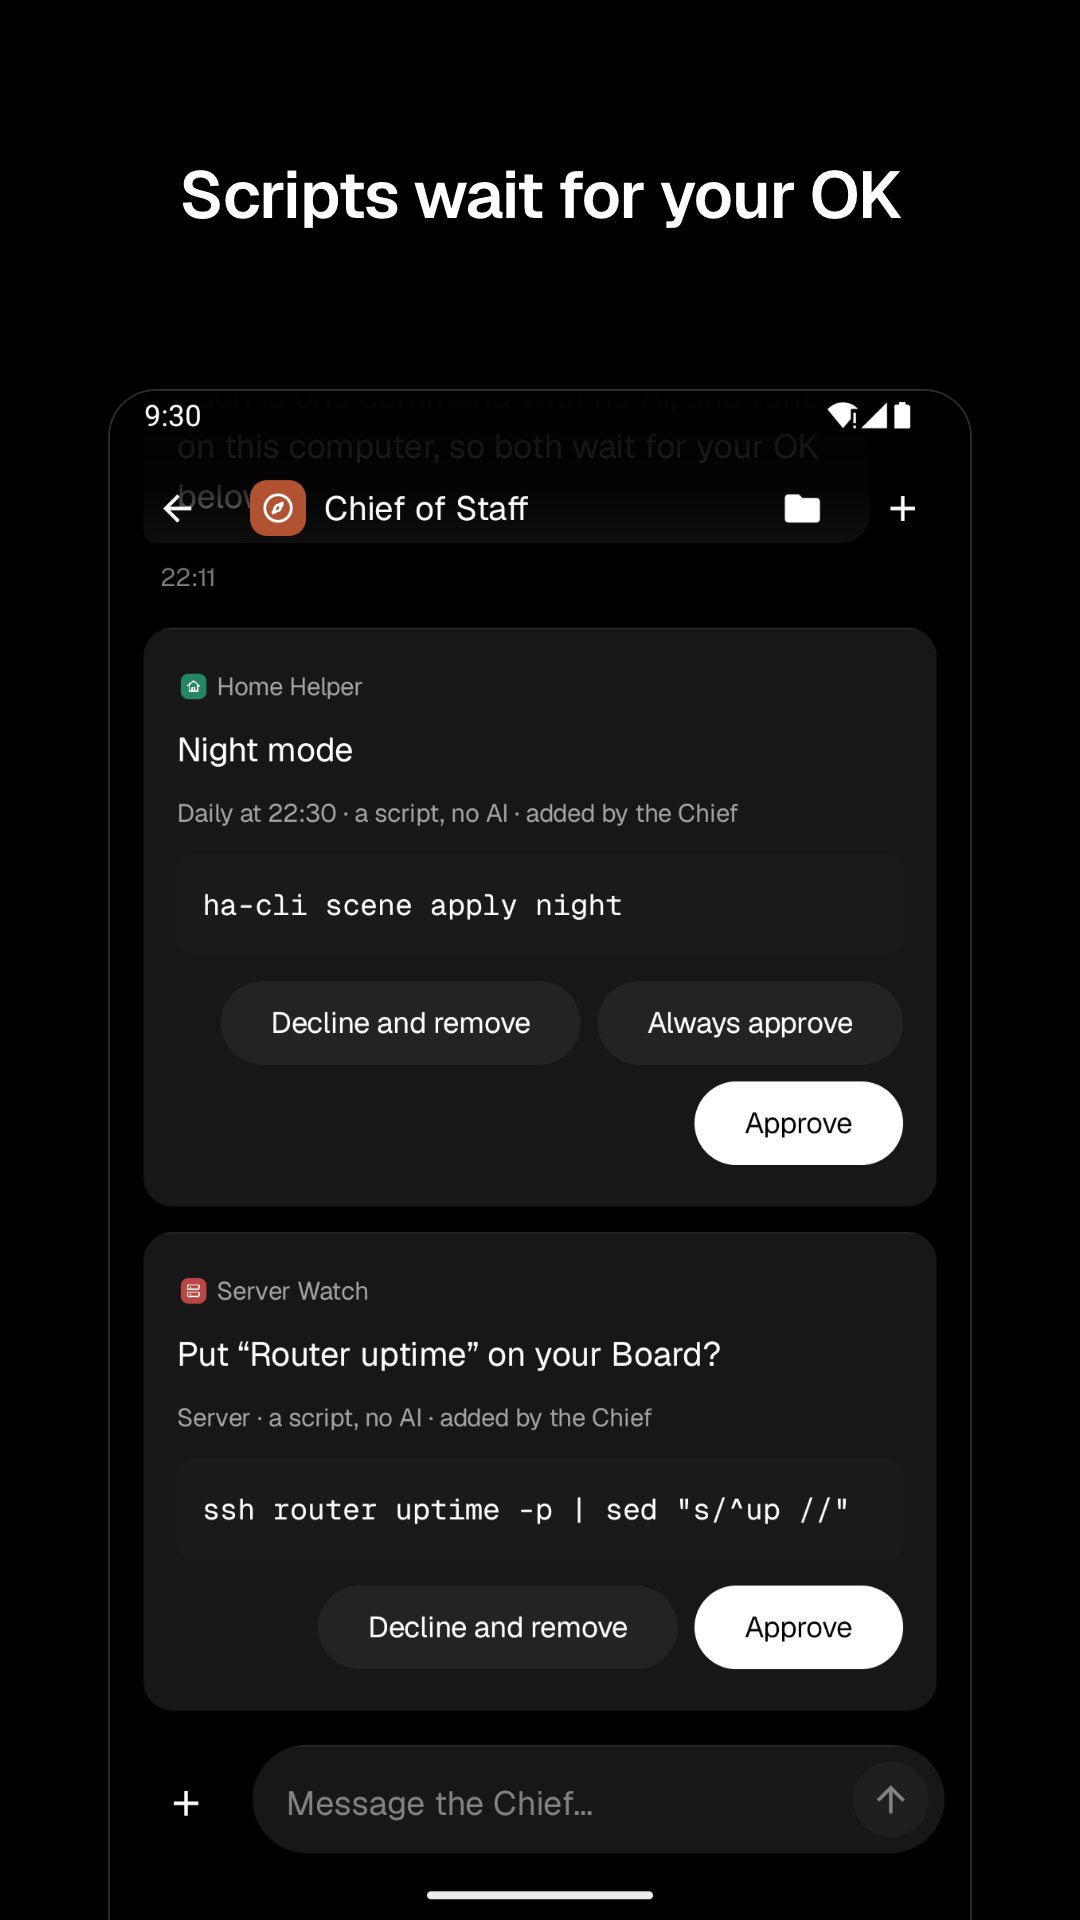
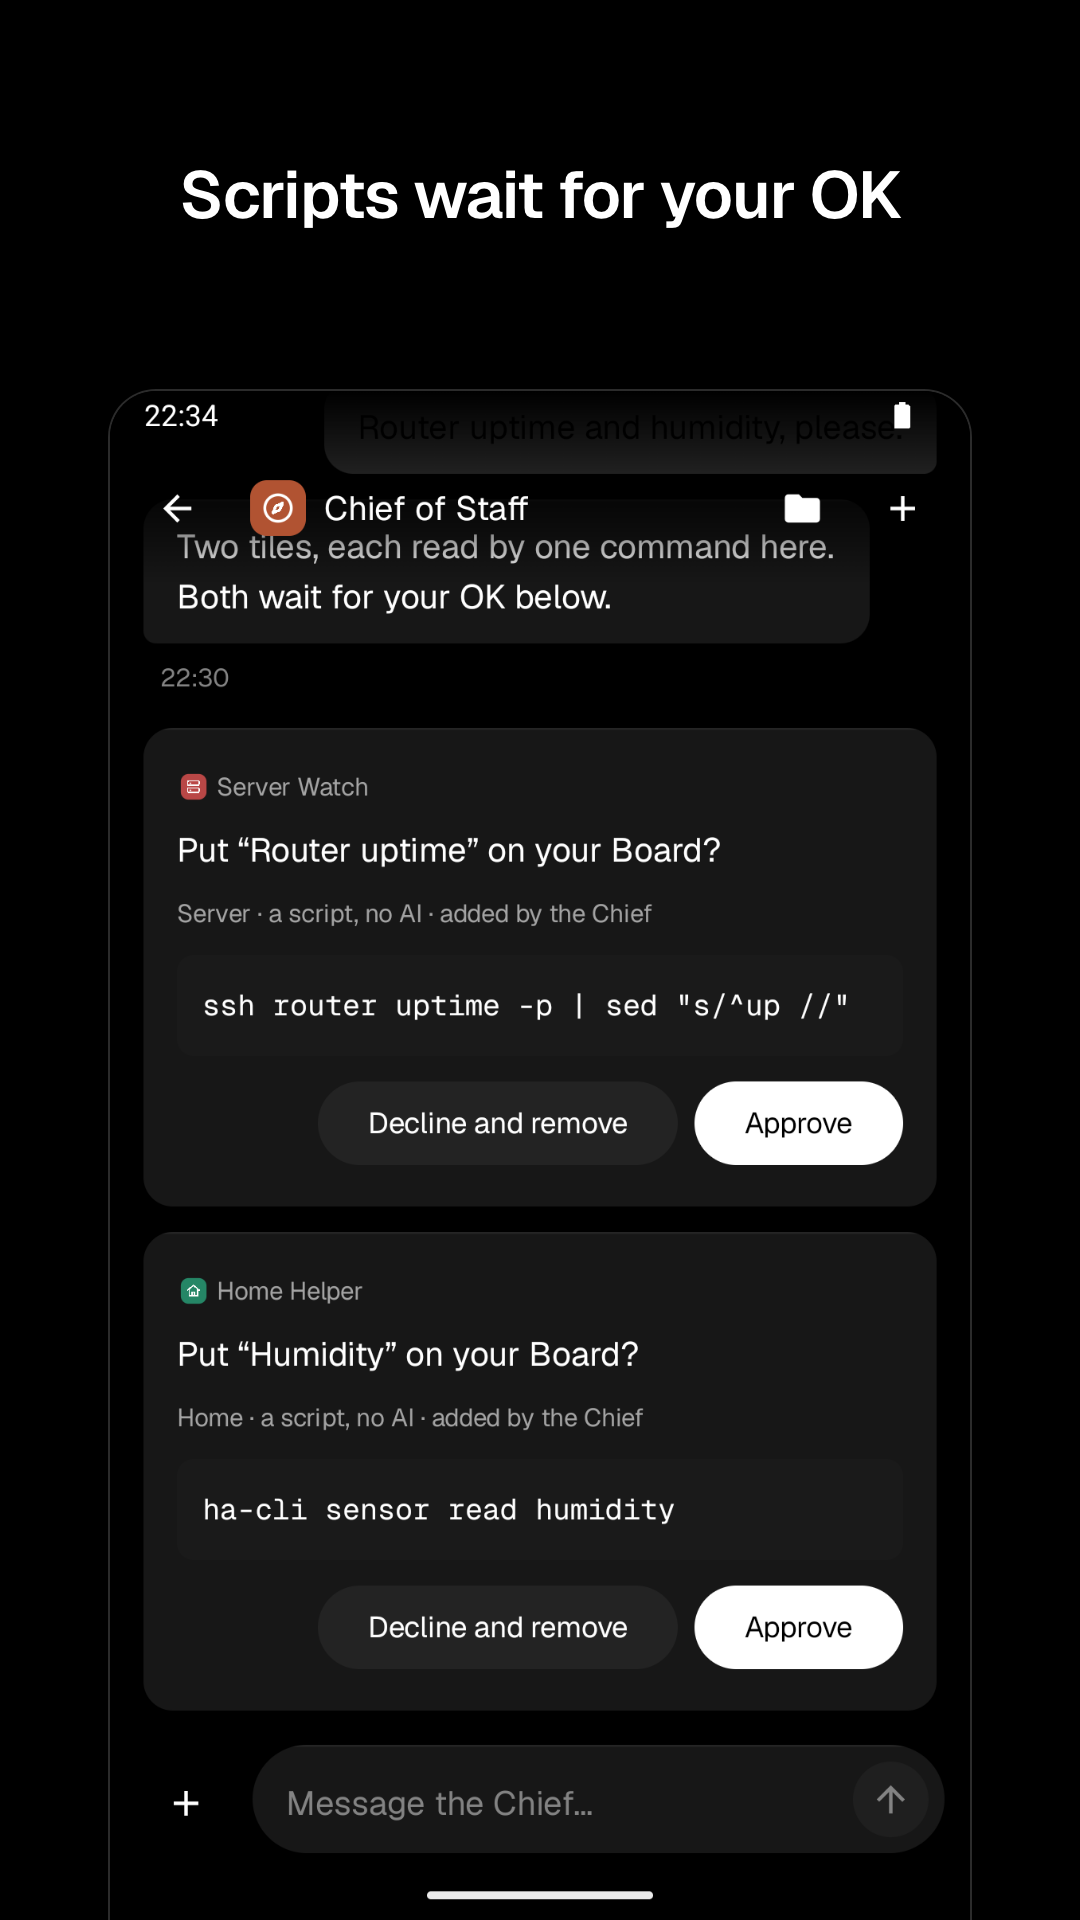
Play screenshots: eight screens that show the answer views (#1679)
* Play screenshots: a scene with answer views, and a drive that brings each to the screen

* Play screenshots: one view a screen, the header kept clear, the Board's Server tiles

* Play screenshots: a clean top under the header, and a try at the status bar

* Play screenshots: airplane mode for a clean status bar, the Board's readings over an hour, a shorter team reply

* Play screenshots: wifi off as well as airplane mode

* Play screenshots: no data type beside the signal

* Play screenshots: wifi off, then airplane mode

* Play screenshots: one wifi icon

* Play screenshots: the Chief's second turn asks for two tiles, so its cards sit clear of the header

* Play screenshots: the Chief and quiz chats end clear of the composer

* Play screenshots: the new pictures, drawn from the answer views

Eight screens that tell one story: Home, the Chief's plan, its two tiles waiting for an OK, live gauges, a chart,
a quiz, a comparison in the team chat and the Board. English and Polish captions, and the feature graphics.

* Play screenshots: the status bar shows the phone's own time, as the chats are stamped with it

* Play screenshots: a 24-hour clock in the status bar, as the chats are stamped

* Play screenshots: the next event is tomorrow's, as the clock is the phone's own

* Play screenshots: the pictures again, with the phone's own time

---------

diff --git a/test/google-play.test.js b/test/google-play.test.js
@@ -54,6 +54,20 @@ test('the phone screenshots are what Play takes: 2 to 8 a language, 9:16, 320 to
   }
 });
 
+test('every answer view of the screenshots\' scene is read by the app\'s validator whole: nothing cut, nothing unknown, every figure with its source', () => {
+  const { VIEWS } = require('../docs/google-play/screenshots/views.cjs');
+  const view = require('../public/answer-view').of(require('../lib/ui-catalog.json'));
+  assert.ok(Object.keys(VIEWS).length >= 5);
+  for (const [name, v] of Object.entries(VIEWS)) {
+    const r = view.validate(JSON.stringify(v));
+    assert.equal(r.ok, true, name);
+    assert.deepEqual(r.problems, [], `${name}: what the validator cut or left out`);
+    const drawn = JSON.stringify(r.root);
+    assert.ok(!/"unknown"/.test(drawn), `${name}: an unknown component`);
+    assert.ok(!/noSource/.test(drawn), `${name}: a figure with no source`);
+  }
+});
+
 test('the privacy policy names every permission the Play build asks for', () => {
   const manifest = fs.readFileSync(path.join(__dirname, '../android/app/src/main/AndroidManifest.xml'), 'utf8');
   const removed = fs.readFileSync(path.join(__dirname, '../android/app/src/play/AndroidManifest.xml'), 'utf8');

diff --git a/docs/google-play/README.md b/docs/google-play/README.md
@@ -46,7 +46,7 @@ In the order Play Console shows the fields. `node docs/google-play/png.cjs check
 2. **App icon:** [graphics/icon-512.png](graphics/icon-512.png) (512 × 512, 32-bit PNG).
 3. **Feature graphic:** [graphics/feature-1024x500.png](graphics/feature-1024x500.png) (1024 × 500, 24-bit PNG, no alpha).
 4. **Video:** leave empty.
-5. **Phone screenshots:** the eight of [screenshots/en/](screenshots/en/), in their order `1-home` to `8-team` (1080 × 1920, 9:16, 24-bit PNG). Without captions: [screenshots/raw/](screenshots/raw/) instead.
+5. **Phone screenshots:** the eight of [screenshots/en/](screenshots/en/), in their order `1-home` to `8-board` (1080 × 1920, 9:16, 24-bit PNG). Without captions: [screenshots/raw/](screenshots/raw/) instead.
 6. **Tablet screenshots (7-inch, 10-inch):** leave empty. The app is listed for phones; tablet pictures are optional.
 7. Save.
 
@@ -66,7 +66,7 @@ In the order Play Console shows the fields. `node docs/google-play/png.cjs check
 
 ### Making the pictures again
 
-1. **Screenshots:** GitHub → Actions → **Play screenshots** → Run workflow, on the branch with the change. The run stages a botdot with demo data (`scene.cjs`: made-up bots, mail and contractors, no real person), starts the app on an emulator and pictures eight screens (`drive.cjs`). Download its **play-screenshots** artifact into `screenshots/raw/`.
+1. **Screenshots:** GitHub → Actions → **Play screenshots** → Run workflow, on the branch with the change. The run stages a botdot with demo data (`scene.cjs`: made-up bots, mail and contractors, no real person; the answer views in the bots' replies are in `views.cjs`, written in the `ui` fence format of the catalog and read by the app's validator in `test/google-play.test.js`), starts the app on an emulator and pictures eight screens (`drive.cjs`): Home, the Chief's plan for a new bot, the approval cards, gauges that read the Board's tiles, a chart, a quiz answered in the chat, three quotes compared, and the Board. Download its **play-screenshots** artifact into `screenshots/raw/`.
 2. **Captions:** `node docs/google-play/screenshots/caption.cjs` writes `en/` and `pl/` from `raw/`; the captions are in that file.
 3. **Icon and feature graphics:** `node docs/google-play/graphics/make.cjs` (the feature graphics use `raw/1-home.png`).
 4. Check them with `png.cjs check` (it fails on a picture Play would refuse), and look at each one.
